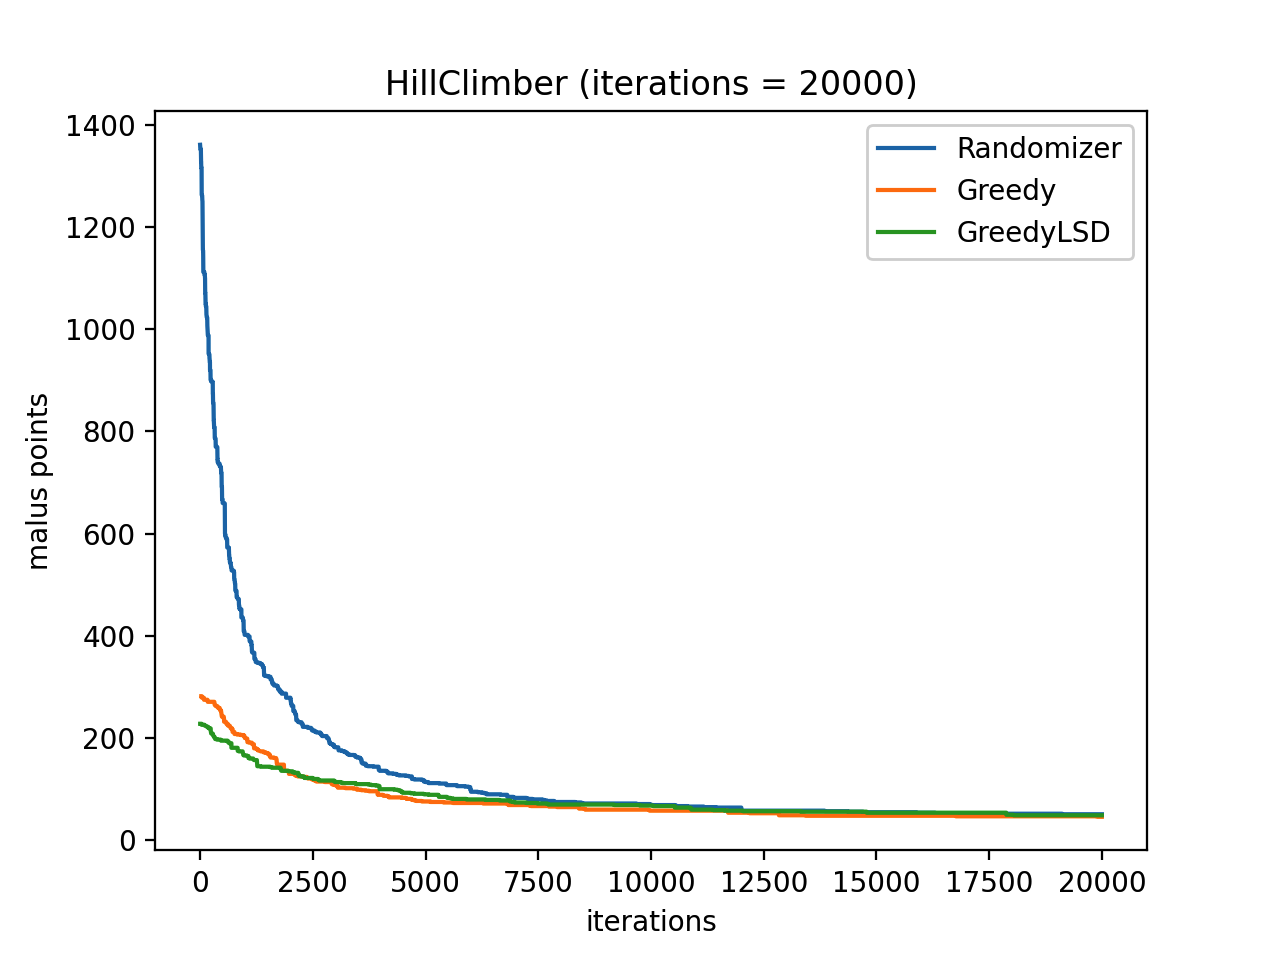
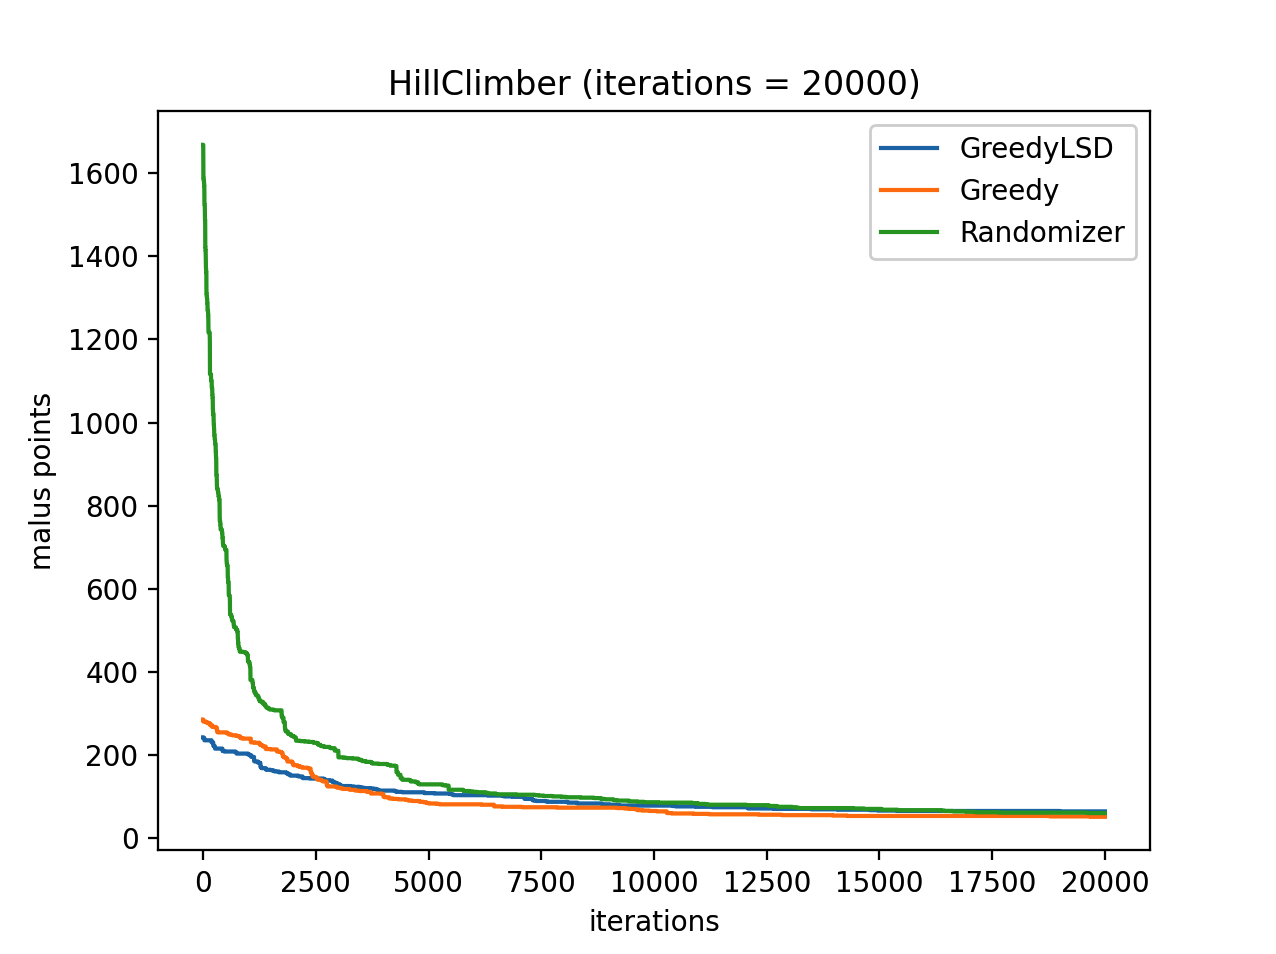
docs: adjust results based on previous fixes

diff --git a/code/algorithms/hillclimber.py b/code/algorithms/hillclimber.py
@@ -3,7 +3,8 @@ import logging
 import random
 from typing import Union
 from code.algorithms.base import Algorithm
-from code.algorithms.greedy import GreedyLSD
+from code.algorithms.greedy import Greedy, GreedyLSD
+from code.algorithms.randomizer import Randomizer
 from code.utils.decorators import timer
 import matplotlib.pyplot as plt
 
@@ -73,8 +74,8 @@ class HillClimber(Algorithm):
                 return
 
             # Log the current iteration every 100 iterations.
-            if i % 100 == 0 and i > 0:
-                self.logger.info(f'Starting iteration {max(i, 1)}/{iterations}')
+            if (i + 1) % 100 == 0:
+                self.logger.info(f'Starting iteration {i + 1}/{iterations}')
 
             self.mutate_state()
 

diff --git a/code/algorithms/tabu_search.py b/code/algorithms/tabu_search.py
@@ -80,7 +80,7 @@ class TabuSearch(Algorithm):
                 return
 
             # Log the current iteration every 100 iterations.
-            if i % 100 == 0 and i > 0:
+            if (i + 1) % 100 == 0:
                 self.logger.info(f'Starting iteration {max(i, 1)}/{iterations}')
 
             candidate = self.get_neighbor(best_solution)

diff --git a/docs/3-greedy-algorithm/README.md b/docs/3-greedy-algorithm/README.md
@@ -17,8 +17,7 @@ De pseudo code voor mijn constructieve algoritme is als volgt:
 Ook bedacht ik mij dat het logischer zou zijn om van links naar rechts in te
 plannen, in plaats van boven naar onder, zodat eerst de tijdsloten van 9 uur
 ingevuld worden voor elke dag, dan 11 uur, dan 15 uur etc, maar helaas gaf dit
-een veel slechter resultaat. Van boven naar onder geeft een malus score van 282
-en van links naar rechts geeft een malus score van 307.
+een veel slechter resultaat.
 
 Het greedy algoritme berekent de beste optie voor een activiteit door de deze in
 elk tijdslot in te plannen in de zaal die perfect of groot genoeg is qua
@@ -28,7 +27,7 @@ we al deze mogelijkheden op het laagste aantal violations met laagste aantal
 maluspunten en vervolgens nog op vroegste tijdslot en day van de week. Dit geeft
 ons het beste eerst opkomende tijdslot met de minste maluspunten.
 
-Hieronder is een versie te zien zonder violations met 282 maluspunten. Dit toont
+Hieronder is een versie te zien zonder violations met 286 maluspunten. Dit toont
 aan dat het greedy algoritme het aantal maluspunten flink verminderd ten
 opzichte van het random algortime dat 1000+ maluspunten opleverde.
 

diff --git a/docs/5-greedy-lsd/README.md b/docs/5-greedy-lsd/README.md
@@ -89,9 +89,9 @@ het aantal dubbel ingeplande activiteiten van hetzelfde vak. Bijvoorbeeld, als
 er in een tijdslot 3 activiteiten zitten van hetzelfde vak, dan zijn er 2 te
 veel hier, dus hier wordt een malus score van 2 extra toegekend. Dit resulteerde
 in een verhoging (zoals verwacht) in het totaal aantal maluspunten voor het
-rooster. Greedy heeft hiermee 282 maluspunten. Vervolgens heeft het Greedy LSD
-algoritme 228 maluspunten behaald, aldus 54 punten minder. Hierbij heeft greedy
-195 student conflicten en de Greedy LSD 169, een verschil van 26 student
+rooster. Greedy heeft hiermee 286 maluspunten. Vervolgens heeft het Greedy LSD
+algoritme 243 maluspunten behaald, aldus 43 punten minder. Hierbij heeft greedy
+209 student conflicten en de Greedy LSD 176, een verschil van 33 student
 conflicten.
 
 Per iteratie van het greedy algoritme is een `get_next_event()` methode die

diff --git a/docs/4-hillclimber/README.md b/docs/4-hillclimber/README.md
@@ -39,9 +39,9 @@ minder en minder bij elk algoritme.
 
 | algoritme  | start maluspunten | eind maluspunten |
 | ---------- | ----------------- | ---------------- |
-| Randomizer | 1369              | 51               |
-| Greedy     | 282               | 46               |
-| Greedy LSD | 228               | 49               |
+| Randomizer | 1668              | 61               |
+| Greedy     | 286               | 52               |
+| Greedy LSD | 243               | 62               |
 
 Uit bovenstaande resultaat kunnen we concluderen dat de hill climber altijd
 convergeert bij deze casus en aldus erg effectief is in het minimaliseren van de
